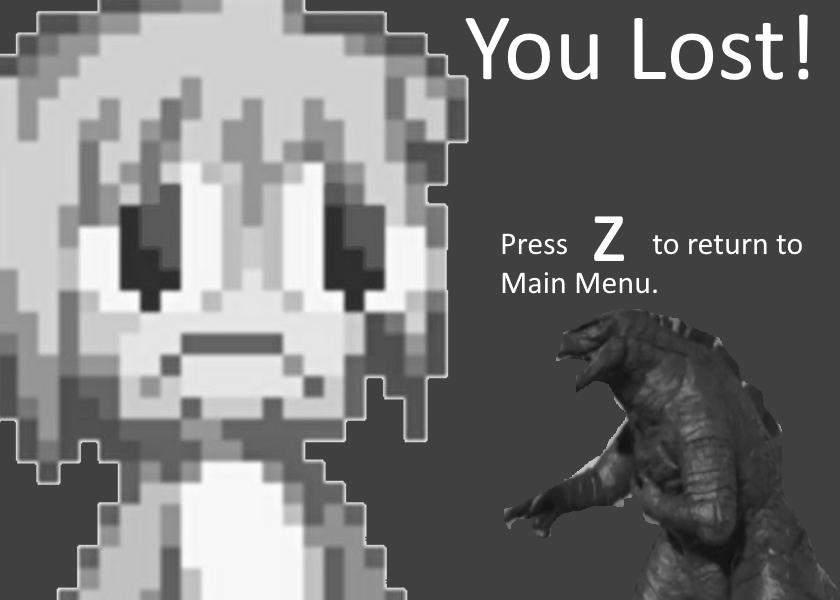
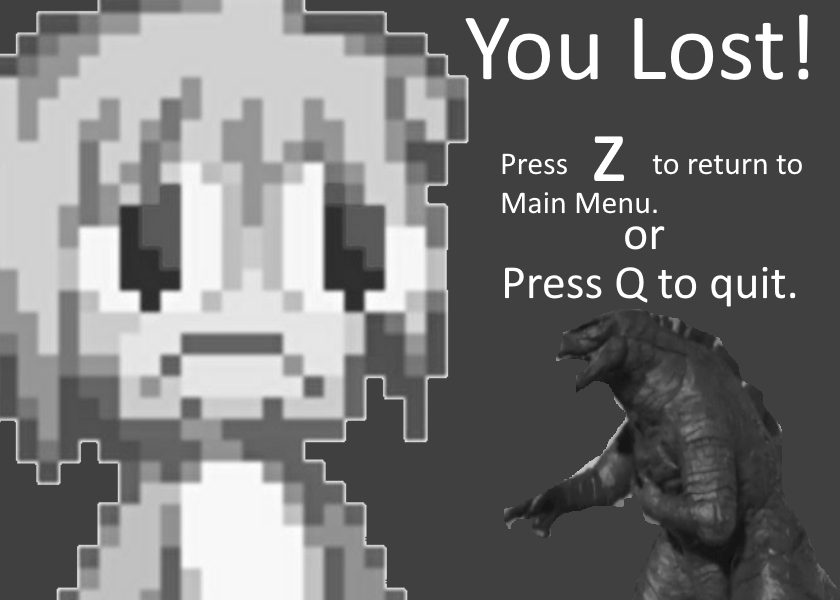
Tower Defense Game
Added:
Nicer looking main menu
Unique road texture
New menu colour
Thank you screen
Option to quit game
Option to remove all towers on field
And a lot more features to the game.

diff --git a/Team Game/MainMenu.java b/Team Game/MainMenu.java
@@ -20,6 +20,9 @@ public class MainMenu extends World
 
         Titleletters titleletters = new Titleletters();
         addObject(titleletters,419,300);
+        
+        QuitText quittext = new QuitText();
+        addObject(quittext,422,500);
 
         prepare();
     }
@@ -28,6 +31,9 @@ public class MainMenu extends World
     {
         if (Greenfoot.isKeyDown("Enter"))
             Greenfoot.setWorld(new MyWorld());
+            
+        if (Greenfoot.isKeyDown("Q"))
+            Greenfoot.setWorld(new ThankYou());
     }
 
     /**

diff --git a/Team Game/ThankYou.java b/Team Game/ThankYou.java
@@ -1,0 +1,21 @@
+import greenfoot.*;  // (World, Actor, GreenfootImage, Greenfoot and MouseInfo)
+
+/**
+ * Write a description of class ThankYou here.
+ * 
+ * @author (your name) 
+ * @version (a version number or a date)
+ */
+public class ThankYou extends World
+{
+
+    /**
+     * Constructor for objects of class ThankYou.
+     * 
+     */
+    public ThankYou()
+    {    
+        // Create a new world with 600x400 cells with a cell size of 1x1 pixels.
+        super(840, 600, 1);  
+    }
+}

diff --git a/Team Game/MyWorld.java b/Team Game/MyWorld.java
@@ -42,6 +42,7 @@ public class MyWorld extends World
         showText("Money: " + money, 660,30);
         showText("Tower = 50",700,70);
         showText("Left Mouse Click = Tower", 725,100);
+        showText("V key = Remove all towers", 725,150);
         prepare();
     }
 
@@ -51,6 +52,8 @@ public class MyWorld extends World
         showText("Money: " + money, 660,30);
         worldTime++;
         spawnWave();
+        
+        
     }
 
     private void Level1()

diff --git a/Team Game/QuitText.java b/Team Game/QuitText.java
@@ -1,0 +1,18 @@
+import greenfoot.*;  // (World, Actor, GreenfootImage, Greenfoot and MouseInfo)
+
+/**
+ * Write a description of class QuitText here.
+ * 
+ * @author (your name) 
+ * @version (a version number or a date)
+ */
+public class QuitText extends Actor
+{
+    /**
+     * Act - do whatever the QuitText wants to do. This method is called whenever
+     * the 'Act' or 'Run' button gets pressed in the environment.
+     */
+    public QuitText()
+    {
+    }
+}

diff --git a/Team Game/GameOver.java b/Team Game/GameOver.java
@@ -23,5 +23,7 @@ public class GameOver extends World
     {
         if (Greenfoot.isKeyDown("Z"))
             Greenfoot.setWorld(new MainMenu());
+        if (Greenfoot.isKeyDown("Q"))
+            Greenfoot.setWorld(new ThankYou());
     }
 }

diff --git a/Team Game/Enemy.java b/Team Game/Enemy.java
@@ -55,7 +55,7 @@ public class Enemy extends Actor
         }
         if(health < 1)
         {
-            world.money += 1;
+            world.money += 25;
             getWorld().removeObject(this);
         }
         else if(isAtEdge())

diff --git a/Team Game/Tower.java b/Team Game/Tower.java
@@ -20,6 +20,8 @@ public class Tower extends Actor
     public void act()
     {
         enemyDetector();
+        if (Greenfoot.isKeyDown("V"))
+            getWorld().removeObject(this);
     }
     public void enemyDetector()
     {
